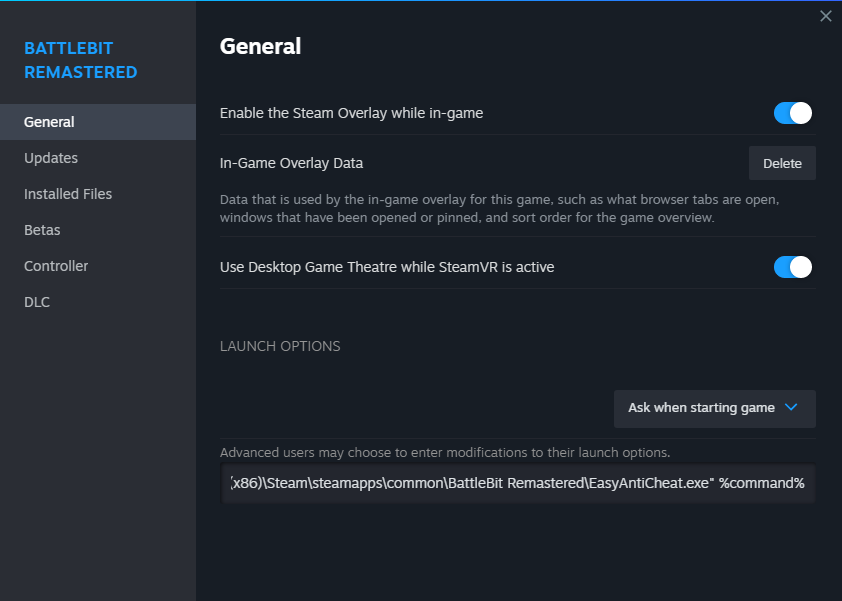
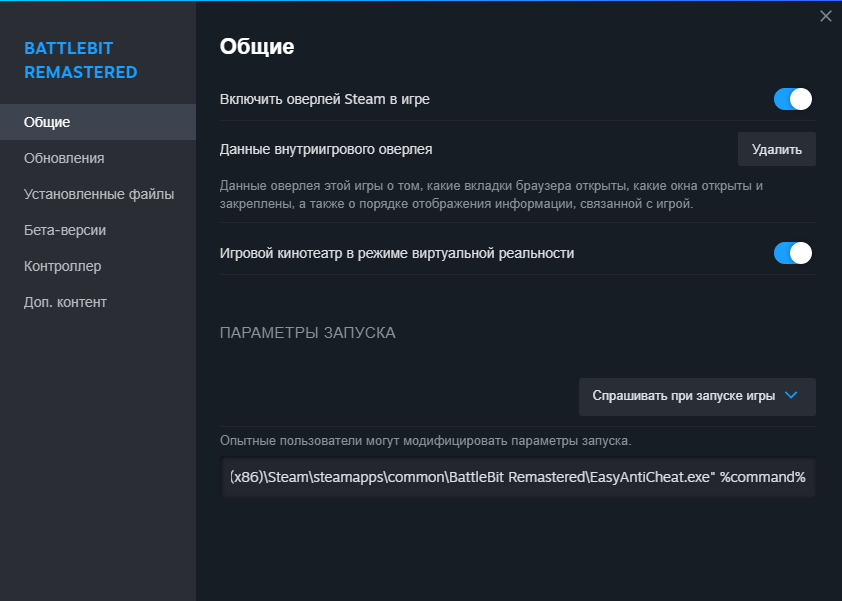
crashes group fully translated

diff --git a/crashes/the-application-was-unable-to-start-correctly-0xc0000005.md b/crashes/the-application-was-unable-to-start-correctly-0xc0000005.md
@@ -1,24 +1,24 @@
 ---
 description: >-
-  ACCESS_VIOLATION - process tried to write to an area of memory that is
-  forbidden/inacessible.
+  ACCESS_VIOLATION - процесс попытался произвести запись в зону памяти которая
+  недоступна/запись в ней запрещена.
 ---
 
-# 🔘 The application was unable to start correctly (0xc0000005)
+# 🔘 The application was unable to start correctly (0xc0000005).
 
 <figure><img src="../.gitbook/assets/0xc0000005.jpg" alt=""><figcaption></figcaption></figure>
 
-1. If you use third-party antivirus make sure it's not interfering with the game and add BattleBit and EAC folder to exclusions. If it won't help - delete it (especially trend micro).
-2. Try running `BattlebitEAC.exe` or `EasyAntiCheat.exe` as admin located in installed files.
+1. Если вы используете сторонний антивирус - убедитесь, что вы добавили EAC в его исключения. Если это не поможет - попробуйте удалить антивирус (особенно trend micro), чтобы проверить, уйдет ли проблема.
+2. Попробуйте запустить `BattleBitEAC.exe` или `EasyAntiCheat.exe` (расположены в папке с игрой) от имени администратора.
 
-<figure><img src="../.gitbook/assets/browse.png" alt="" width="374"><figcaption><p>Right click on the game, then go to manage and click on Browse local files</p></figcaption></figure>
+<figure><img src="../.gitbook/assets/browse.png" alt="" width="374"><figcaption><p>Нажмите ПКМ по игре, затем "Управление" и "Просмотреть локальные файлы".</p></figcaption></figure>
 
-<figure><img src="../.gitbook/assets/runasadmin.png" alt="" width="287"><figcaption><p>Right click on executable and click "Run as administrator".</p></figcaption></figure>
+<figure><img src="../.gitbook/assets/runasadmin.png" alt="" width="417"><figcaption><p>Нажмите ПКМ по исполняемому файлу, затем "Запуск от имени администратора".</p></figcaption></figure>
 
-3. [Run sfc/dism](../other/running-sfc-dism.md).
-4. Disable overclocking software if you have any.
-5. Verify game files.
+3. Запустите [EAC Fix batch](https://github.com/livingflore/BattleBitEACFix/releases) (файл BattleBitEACFix.bat).
+4. Выключите любой оверклокинг (разгон) / софт для него.
+5. Проверьте целостность файлов игры.
 
-<figure><img src="../.gitbook/assets/BBR_Validation.gif" alt=""><figcaption><p>Right click on the game and press "Properties...", Select "Installed Files" tab and press "Verify integrity of game files".</p></figcaption></figure>
+<figure><img src="../.gitbook/assets/BBR_Validation.gif" alt=""><figcaption><p>Нажмите ПКМ по игре, затем "Свойства...", перейдите во вкладку "Установленные файлы" и нажмите "Проверить целостность файлов игры".</p></figcaption></figure>
 
-6. Reinstall the game on other drive/partition.
+6. Переустановите игру на другой диск / раздел.

diff --git a/crashes/launch-from-steam.md b/crashes/launch-from-steam.md
@@ -1,9 +1,9 @@
 ---
 description: >-
-  Game crashes instantly if launched from Steam, but runs fine if launched from
-  executables in installed files.
+  Игра сразу крашится если запускается из Steam, но при этом работает нормально
+  если запуск происходит от исполняемых файлов в корне игры.
 cover: ../.gitbook/assets/launchfromsteam.png
-coverY: 0
+coverY: -10
 layout:
   cover:
     visible: true
@@ -20,15 +20,15 @@ layout:
     visible: true
 ---
 
-# 🔘 Launch from Steam
+# 🔘 Запуск из Steam
 
-If you experience this problem:
+Если вы испытываете эту проблему:
 
-1. Navigate to launch options by right clicking the game and pressing "Properties...".
+1. Перейдите к параметрам запуска посредством нажатия ПКМ по игре, затем "Свойства...".
 
 <figure><img src="../.gitbook/assets/properties.png" alt=""><figcaption></figcaption></figure>
 
-2. Paste this in your launch options (replace your game path if it's different):\
-   `"C:\Program Files (x86)\Steam\steamapps\common\BattleBit Remastered\EasyAntiCheat.exe" %command%`&#x20;
+2. Вставьте эту строку в ваши параметры запуска (замените путь к корню игры если он отличается):\
+   `"C:\Program Files (x86)\Steam\steamapps\common\BattleBit Remastered\EasyAntiCheat.exe" %command%`
 
-<figure><img src="../.gitbook/assets/launchoptionsfix.png" alt=""><figcaption><p>It should look like this. If your game path differs - replace it with your actual game path.</p></figcaption></figure>
+<figure><img src="../.gitbook/assets/launchoptionsfix.png" alt=""><figcaption><p>Должно выглядеть как на скрине. Если путь к корню игры отличается (игра установлена не на диск С) - замените его на актуальный.</p></figcaption></figure>

diff --git a/crashes/wrong-resolution.md b/crashes/wrong-resolution.md
@@ -1,21 +1,21 @@
 ---
-description: Crash caused by wrong resolution setting.
+description: Краш, вызванный неправильным разрешением экрана.
 ---
 
 # 🔘 Wrong resolution
 
-This page is for users that have manually adjusted their resolution to a value that has caused BattleBit to constantly crash upon loading the game. Here's how to fix it:
+Если вы изменили разрешение экрана на неправильное и теперь при запуске игры она крашится, сделайте следующее:
 
-1. Open the AppData folder.
+1. Откройте папку AppData.
 
-<figure><img src="../.gitbook/assets/run_menu_appdata.png" alt=""><figcaption><p>Press Win+R, type <code>%appdata%</code> and press Enter.</p></figcaption></figure>
+<figure><img src="../.gitbook/assets/runappdata.png" alt="" width="369"><figcaption><p>Press Win+R, type <code>%appdata%</code> and press Enter.</p></figcaption></figure>
 
-2. Navigate to `BattleBitConfig.ini` file.
+2. В этой папке найдите файл `BattleBitConfig.ini`.
 
-<figure><img src="../.gitbook/assets/appdata_folder_config_file.png" alt=""><figcaption><p>AppData/Roaming folder</p></figcaption></figure>
+<figure><img src="../.gitbook/assets/appdata_folder_config_file.png" alt=""><figcaption></figcaption></figure>
 
-3. &#x20;Set `customresolution` to true and `customscreenresolution` to match your monitor settings:
+3. Задайте `customresolution` значение true и `customscreenresolution` значение необходимого разрешения экрана (как на скриншоте ниже):
 
-<figure><img src="../.gitbook/assets/config_file.png" alt=""><figcaption><p>BattleBit config file</p></figcaption></figure>
+<figure><img src="../.gitbook/assets/config_file.png" alt=""><figcaption></figcaption></figure>
 
-4. &#x20;Save your changes and close config file.
+4. Сохраните файл, закройте его и запустите игру.

diff --git a/crashes/bsod-on-game-launch-139.md b/crashes/bsod-on-game-launch-139.md
@@ -2,8 +2,8 @@
 description: 0xc0000139 - KERNEL_SECURITY_CHECK_FAILURE
 ---
 
-# 🔘 BSoD on game launch (139)
+# 🔘 Синий экран смерти при запуске игры (139)
 
 <figure><img src="../.gitbook/assets/bsod139.png" alt=""><figcaption></figcaption></figure>
 
-Usually, cause of this issue is `EasyAntiCheat_EOS.sys` driver. To fix it, you need to [run sfc/dism](../other/running-sfc-dism.md) and [EAC Fix batch](https://github.com/livingflore/BattleBitEACFix/releases) (.bat file).
+Обычно, причина этой ошибки это драйвер`EasyAntiCheat_EOS.sys`. Для решения вам необходимо [запустить sfc/dism](../other/running-sfc-dism.md) и [EAC Fix batch](https://github.com/livingflore/BattleBitEACFix/releases) (файл BattleBitEACFix.bat).

diff --git a/SUMMARY.md b/SUMMARY.md
@@ -16,8 +16,8 @@
 
 ## 💥 Crashes
 
-* [🔘 Launch from Steam](crashes/launch-from-steam.md)
-* [🔘 BSoD on game launch (139)](crashes/bsod-on-game-launch-139.md)
+* [🔘 Запуск из Steam](crashes/launch-from-steam.md)
+* [🔘 Синий экран смерти при запуске игры (139)](crashes/bsod-on-game-launch-139.md)
 * [🔘 The application was unable to start correctly (0xc0000005).](crashes/the-application-was-unable-to-start-correctly-0xc0000005.md)
 * [🔘 Wrong resolution](crashes/wrong-resolution.md)
 

diff --git a/eac/make-sure-you-have-installed-easyanticheat-and-run-the-game-with-it.md b/eac/make-sure-you-have-installed-easyanticheat-and-run-the-game-with-it.md
@@ -16,7 +16,7 @@ coverY: 0
 
 <img src="../.gitbook/assets/browse.png" alt="" data-size="original">
 
-2. Нажмите ПКМ по исполняемому файлу и "Запуск от имени администратора".
+2. Нажмите ПКМ по исполняемому файлу, затем "Запуск от имени администратора".
 
 <img src="../.gitbook/assets/runasadmin.png" alt="" data-size="original">
 
